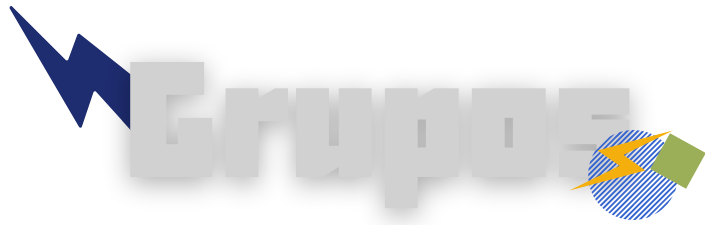
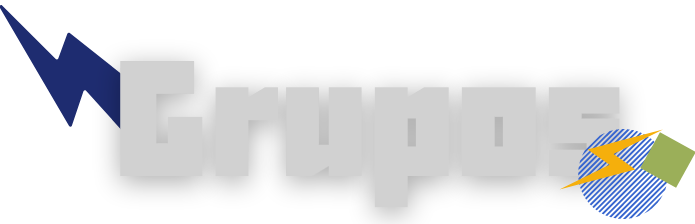
Adição dos botoes

diff --git a/css/style.css b/css/style.css
@@ -17,6 +17,23 @@ body{
 .logo img{
     width: 70%;
 }
+@media (max-width: 780px){
+    .logo img{
+        width: 100%;
+    }
+    .header-1{
+        padding: 20px;
+    }
+    .profile img{
+        position: relative;
+        top: 0;
+        left: 0;
+        width: 80%;
+        height: 100%;
+        object-fit: cover;
+    
+    }
+}
 header{
     background-color: #000000;
     max-width: 100%;
@@ -185,10 +202,10 @@ nav a:hover{
     display: flex;
     justify-content: center;
 }
+
 .image{
     opacity: 1;
     display: block;
-    
     height: auto;
     transition: .5s ease;
     backface-visibility: hidden;
@@ -208,6 +225,9 @@ nav a:hover{
 .jogos:hover .image{
     opacity: 0.65;
 }
+.usuario:hover .image {
+    opacity: 0.65;
+  }
 .title2{
     font-family: 'Geo', sans-serif;
     color: #D1D1D1;
@@ -250,7 +270,10 @@ footer{
 	header { padding-top:40px; }
 }
 
-
+.footer-distributed .footer-links:hover{
+    opacity: 0.65;
+    transition: 0.6s;
+}
 .footer-distributed{
 	background-color: #000000;
 	box-sizing: border-box;
@@ -259,7 +282,7 @@ footer{
 	font: bold 16px sans-serif;
 	padding: 50px 50px 60px 50px;
 	margin-top: 80px;
-    font: 'Geo', sans-serif;
+    font-family: 'Geo', sans-serif;
 }
 
 .footer-distributed .footer-left,
@@ -453,17 +476,24 @@ footer{
           margin: 10%
       }
       .jogadores img{
-          width: 90%
+          width: 96%
       }
       .jogos img{
-          width: 90%;
-          margin-top: 10%;
+         width: 96%;
+          margin-top: 10%; 
       }
       .paises img{
-        width: 70%;
+        width: 80%;
         margin-left: 15%;
       }
       .estadio img{
-        width: 70%;
+        width: 80%;
+      }
+      .grupo img{
+        width: 80%;
+      }
+      .usuario img{
+        width: 90%;
+        margin-top: 9%;
       }
   }

diff --git a/perfil.php b/perfil.php
@@ -9,6 +9,212 @@
         <meta http-equiv="X-UA-Compatible" content="IE=edge">
         <meta name="viewport" content="width=device-width, initial-scale=1.0">
         <title>Perfil</title>
+        <link rel="preconnect" href="https://fonts.googleapis.com">
+        <link rel="preconnect" href="https://fonts.gstatic.com" crossorigin>
+        <link rel="icon" href="../../assets/fifa_icon.png">
+        <link href="https://fonts.googleapis.com/css2?family=Montserrat:wght@300&display=swap" rel="stylesheet">
+        <style>
+    
+    body{
+        font-family: 'Montserrat', sans-serif;
+        background-image: url('../../assets/backgorund.png');
+        /*background-color: #171920;*/
+        width: 98%;
+        height:auto;
+        text-align:center;
+        color:rgb(214, 213, 212);
+        margin-top: 3%;
+    }
+    h1{
+        text-align: center;
+    }
+    form{
+        text-align: center;
+    }
+    h1{
+    text-align: center;
+    font-size: 300%;
+    margin-top: 2%;
+    color: rgb(214, 213, 212);
+}
+form{
+    text-align: center;
+    color: rgb(214, 213, 212);
+    font-weight:200;
+}
+input{
+    font-family: 'Montserrat', sans-serif;
+    font-weight: 700;
+    margin: 2%;
+    color: rgb(214, 213, 212);
+    border-radius: 30px;
+    padding: 10px;
+    padding-left: 20px;
+    padding-right: 20px;
+    font-size: 20px;
+    border-color: transparent;
+    background-color: #3765cf;
+    box-shadow: 2px 10px 18px #000000 ;
+}
+input:hover{
+    background-color: #284a99;
+    transition: 0.2s;
+}
+#counter{
+    color: rgb(214, 213, 212);
+}
+select{
+    font-family: 'Montserrat', sans-serif;
+    font-weight: 700;
+    border-radius: 30px;
+    padding: 2px;
+    padding-left: 15px;
+    padding-right: 15px;
+    font-size: 20px;
+    border-color: transparent;
+    background-color:#3765cf;
+    box-shadow: 2px 10px 18px #000000 ;
+    color: rgb(214, 213, 212);
+}
+option{
+    font-family: 'Montserrat', sans-serif;
+    font-weight: 700;
+    border-radius: 30px;
+    padding: 10px;
+    padding-left: 20px;
+    padding-right: 20px;
+    font-size: 20px;
+    border-color: transparent;
+    background-color: #9BAF59;
+    box-shadow: 2px 10px 18px #000000 ;
+    color: rgb(214, 213, 212);
+}
+a{
+    text-decoration: none;
+}
+.search{
+    align-items: center;
+    text-align: center;
+    padding-left: 10%;
+    padding-right: 10%;
+}
+
+.btn{
+    font-family: 'Montserrat', sans-serif;
+    font-weight: 700;
+    margin: 2%;
+    color: rgb(214, 213, 212);
+    border-radius: 30px;
+    padding: 10px;
+    padding-left: 20px;
+    padding-right: 20px;
+    font-size: 20px;
+    border-color: transparent;
+    background-color: #3765cf;
+    box-shadow: 2px 10px 18px #000000 ;
+    list-style-type:none;
+}
+.btn:hover{
+    background-color: #284a99;
+    transition: 0.2s;
+}
+.busca{
+    text-align: center;
+    list-style-type:none;
+}
+li{
+    list-style-type: none;
+}
+select{
+    margin-left:2%;
+}
+::-webkit-scrollbar {
+    width: 10px;
+}
+
+/* Track */
+::-webkit-scrollbar-track {
+background: #f5f5f5;
+}
+
+/* Handle */
+::-webkit-scrollbar-thumb {
+background: #3765cf;
+}
+
+/* Handle on hover */
+::-webkit-scrollbar-thumb:hover {
+background: #1e3772;
+} 
+@media screen and (max-width: 600px){
+    body{
+        width: auto;
+    }
+    .center{
+        margin-top: 3%;
+    }
+    h1{
+        font-size: 200%;
+        margin-left: 6%;
+        margin-right:6%;
+        margin-top: 6%;
+    }
+    input{
+        inline-size: 86%;
+    }
+    form{
+        margin-top:20%;
+    }
+    .search{
+        align-items: center;
+        text-align: center;
+        padding-left: 3%;
+        padding-right: 3%;
+
+    }
+    select{
+        margin: 3%;
+    }
+    
+}
+h3{
+    font-weight: 700;
+}
+.center {
+  margin-left: auto;
+  margin-right: auto;
+  margin-top: 3%;
+}
+ td {
+        padding: 20px;
+}
+#list{
+    margin-top: 7%;
+    padding: 10px;
+}
+#list th{
+    margin-right: 10px;
+    padding: 10px;
+}
+button{
+        font-family: 'Montserrat', sans-serif;
+        font-weight: 700;
+        margin: 2%;
+        color: rgb(214, 213, 212);
+        border-radius: 30px;
+        padding: 10px;
+        padding-left: 20px;
+        padding-right: 20px;
+        font-size: 20px;
+        border-color: transparent;
+        background-color: #3765cf;
+        box-shadow: 2px 10px 18px #000000 ;
+       }
+        button:hover{
+            background-color: #284a99;
+            transition: 0.2s;
+        }      
+</style>
     </head>
     <body>
         <?php if($_SESSION['usuario'] != "Visitante"): ?>

diff --git a/index.php b/index.php
@@ -151,6 +151,16 @@
                     <img src="./assets/estadio-btn.png" alt="" width="320px" class="image">
                 </a>
             </div>
+            <div class="grupo">
+                <?php
+                    if($_SESSION['usuario'] == "Visitante")
+                        echo "<a href='#.html'>";
+                    else
+                        echo "<a href='#.html'>";
+                ?>
+                    <img src="./assets/grupo-btn.png" alt="" width="320px" class="image">
+                </a>             
+            </div>
         </article>
         <article class="btn-down">
             <div class="jogadores">
@@ -173,6 +183,16 @@
                     <img src="./assets/jogos-btn.png" alt="" width="320px" class="image">
                 </a>
             </div>
+            <div class="usuario">
+                <?php
+                    if($_SESSION['usuario'] == "Visitante")
+                        echo "<a href='#.html'>";
+                    else
+                        echo "<a href='#.html'>";
+                ?>
+                    <img src="./assets/usuarios.png" alt="" width="320px" class="image">
+                </a>             
+            </div>
         </article>
         <div class="obs">
             <h3>
@@ -184,7 +204,7 @@
     <footer class="footer-distributed">
         <div class="footer-left">
             <img src="./assets/Logo_footer.png" width="12%">
-                  <h3>Sobre <span>FIFA22</span></h3>
+                  <h3>Copa <span> FIFA 22</span></h3>
                   <p class="footer-links">
 					<a href="#">Início</a>
 					|
@@ -193,7 +213,7 @@
 					<a href="#categorias">Categorias</a>
 					|
 					<a>Contato</a>
-				</p>
+				</p> 
 
 				<p class="footer-company-name">© 2021 doT. Inc</p>
 			</div>
